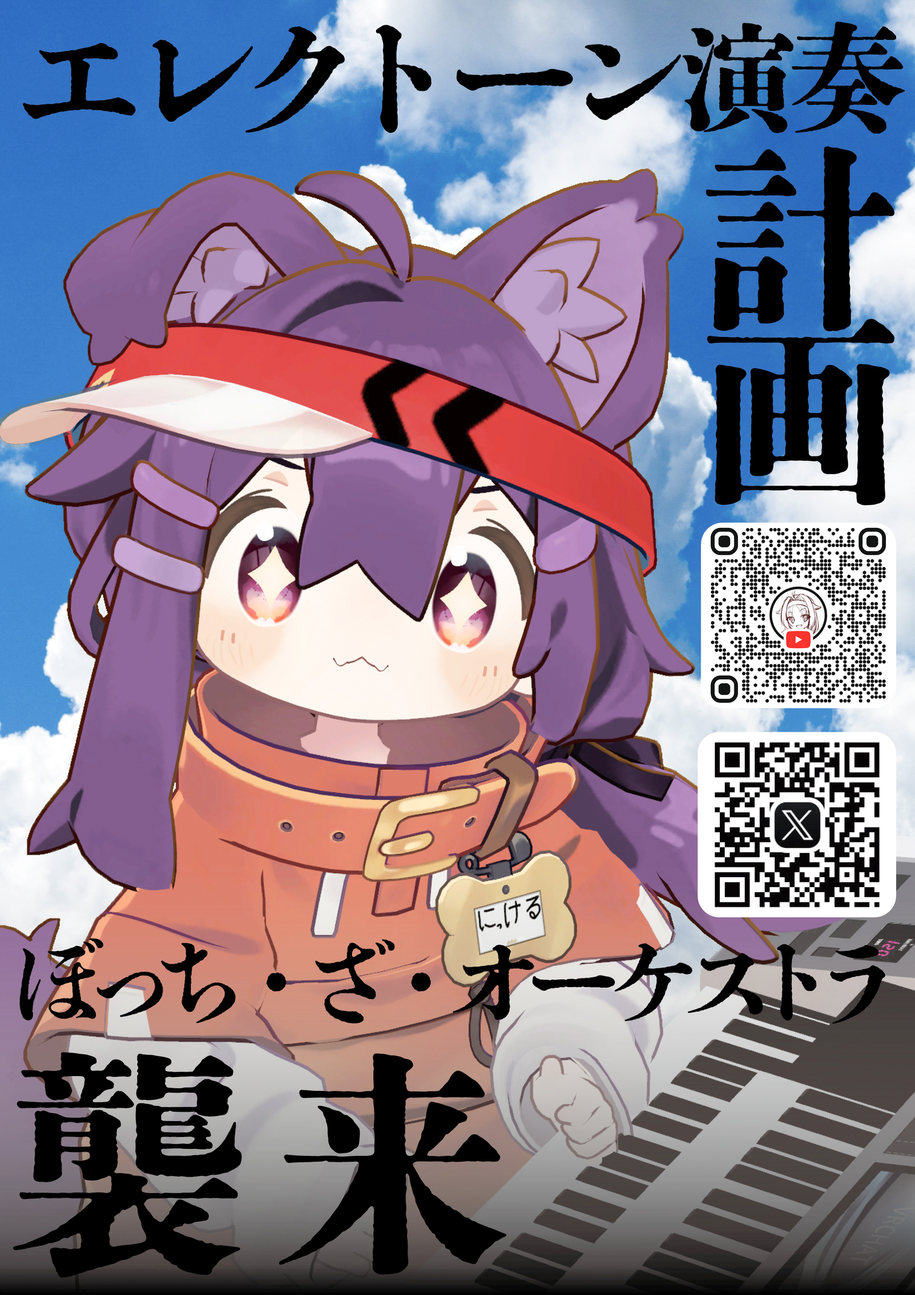
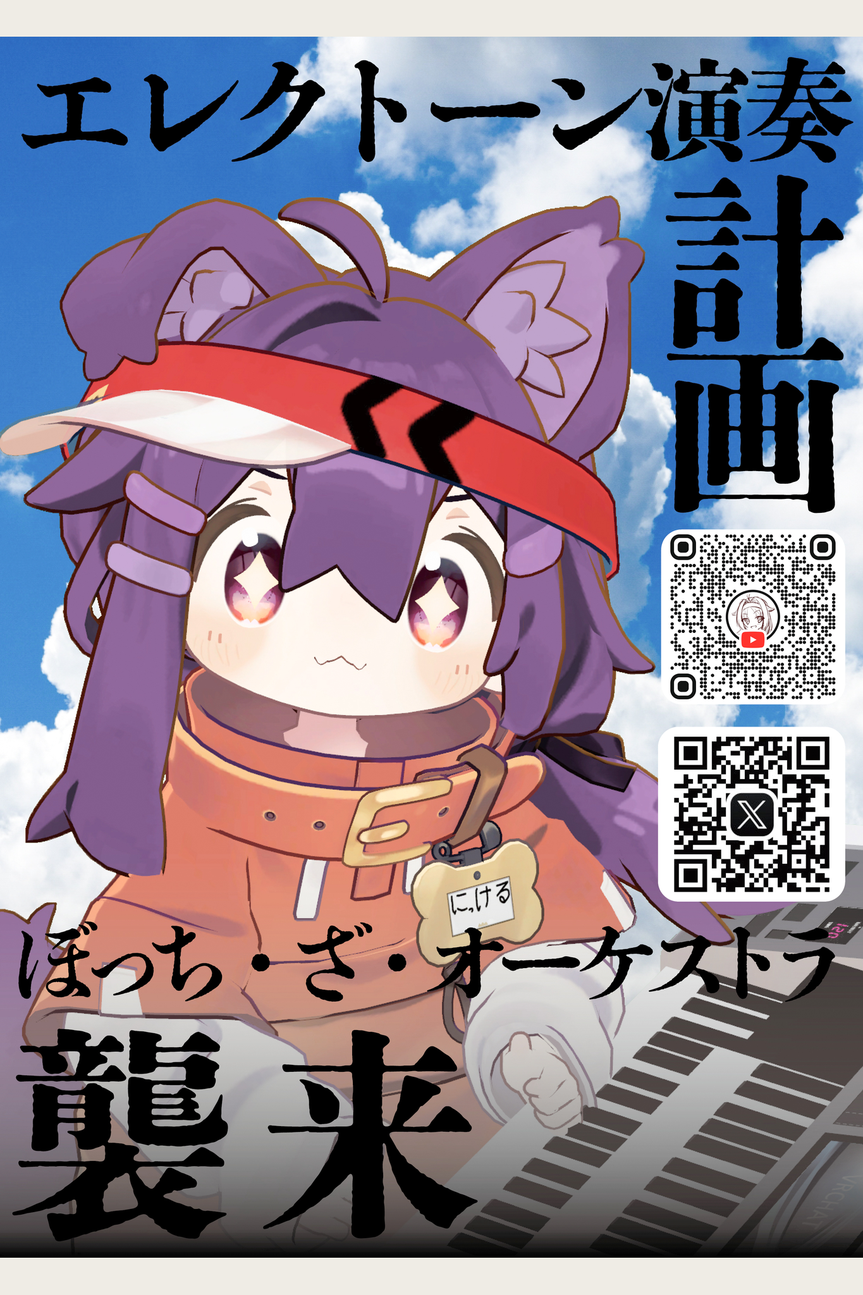
Add files via upload

diff --git a/index.html b/index.html
@@ -80,14 +80,15 @@ async function loadJson(path) {
   }
 }
 
-// 画像が実際に配信されているかを HEAD で確かめる。
-async function exists(path) {
-  try {
-    const res = await fetch(path, { method: "HEAD" });
-    return res.ok;
-  } catch (e) {
-    return false;
-  }
+// 画像を実際に読み込んで、存在と縦横比を確かめる。
+// 比率が 1.50 から外れているとワールドでポスターが縦横に歪む。
+function probeImage(path) {
+  return new Promise(resolve => {
+    const im = new Image();
+    im.onload = () => resolve({ ok: true, w: im.naturalWidth, h: im.naturalHeight });
+    im.onerror = () => resolve({ ok: false });
+    im.src = path + "?t=" + Date.now();
+  });
 }
 
 async function main() {
@@ -118,7 +119,15 @@ async function main() {
 
     if (Number.isInteger(no)) {
       const path = slotPath(no);
-      check(await exists(path), n + "人目: " + path + " が存在する");
+      const info = await probeImage(path);
+      check(info.ok, n + "人目: " + path + " が存在する");
+      if (info.ok) {
+        const ratio = info.h / info.w;
+        check(Math.abs(ratio - 1.50) < 0.01,
+              n + "人目: 縦横比が 1.50 (" + info.w + "x" + info.h + " = " + ratio.toFixed(3) + ")");
+        check(info.w <= 1365 && info.h <= 2048,
+              n + "人目: 2048 以内 (" + info.w + "x" + info.h + ")");
+      }
     }
 
     html.push(

diff --git a/tools/prepare_poster.py b/tools/prepare_poster.py
@@ -7,9 +7,13 @@
 例:
     python tools/prepare_poster.py "C:/Users/shota miyazawa/Desktop/20260818_ss/poster/yuu.png" 1
 
-VRChat の Image Loading は長辺 2048 ピクセルを超える画像を読み込めない。
-超えるものは縮小する。PNG は可逆圧縮なので、縮小が要らない画像も
-再圧縮して配信量を減らす（画質は落ちない）。
+出力は必ず 1365x2048（縦/横 = 1.50）に揃える。額縁の開口と同じ比率である。
+元画像は切らずに、この枠へ収まる最大の大きさで中央に置き、余った部分は
+台紙と同じ色で埋める。
+
+ワールド側でポスター面の形を変えないための処置である。面の形が変わらなければ
+Lightmap Static のまま焼けるので、焼いた光がそのまま正しく乗る。余白部分にも
+台紙と同じライトマップが乗るため、境界は見えない。
 
 番号は roster.json の台帳と対応させる。一度振った番号は変更しないこと。
 Unity 側の VRCUrl はこの番号でワールドに焼き込まれているため、
@@ -21,8 +25,18 @@ import sys
 
 from PIL import Image
 
-# VRChat Image Loading の上限。これを超えると読み込みエラーになる。
-MAX_EDGE = 2048
+# 額縁の開口と同じ比率（高さ / 幅）。出力はこの比率に必ず揃える。
+# 解像度そのものは画像ごとに違ってよい。ポスター面の UV は 0〜1 なので、
+# 比率さえ合っていれば正しい大きさで表示される。
+CANVAS_RATIO = 1.50
+
+# VRChat の Image Loading の上限。これを超えると読み込みエラーになる。
+MAX_W = 1365
+MAX_H = 2048
+
+# 余白の色。Unity 側 MAT_Gallery_OffWhite_DomeTuned の _Color を sRGB8 にしたもの。
+# ここを変えるときは Unity 側の台紙色も必ず合わせること。
+MAT_COLOR = (239, 236, 229)
 
 # 割り当て済みの番号の上限。Unity 側に用意した VRCUrl の枠数と一致させる。
 MAX_SLOT = 100
@@ -43,31 +57,49 @@ def prepare(src_path, slot):
 
     with Image.open(src_path) as im:
         width, height = im.size
-        long_edge = max(width, height)
 
-        # P（パレット）モードのまま縮小すると色が壊れるので RGBA を経由する。
-        work = im.convert("RGBA")
+        # P（パレット）モードのまま縮小すると色が壊れるので RGB を経由する。
+        work = im.convert("RGB")
 
-        if long_edge > MAX_EDGE:
-            scale = MAX_EDGE / long_edge
-            new_size = (round(width * scale), round(height * scale))
-            work = work.resize(new_size, Image.LANCZOS)
-            action = "縮小"
+        # 元画像をちょうど包む 1.50 の枠を求める。拡大はしない。
+        # 拡大しても元にない解像度が増えるだけで、ぼけて容量も増える。
+        canvas_w = max(width, -(-height * 2 // 3))   # ceil(height / 1.5)
+        canvas_h = round(canvas_w * CANVAS_RATIO)
+
+        # 上限を超える場合だけ、枠と画像を同じ倍率で縮める。
+        if canvas_w > MAX_W or canvas_h > MAX_H:
+            shrink = min(MAX_W / canvas_w, MAX_H / canvas_h)
+            canvas_w = int(canvas_w * shrink)
+            canvas_h = round(canvas_w * CANVAS_RATIO)
+            new_size = (max(1, round(width * shrink)), max(1, round(height * shrink)))
         else:
             new_size = (width, height)
-            action = "そのまま"
 
-        # 透過が使われていなければ RGB に落としてファイルを軽くする。
-        if work.getchannel("A").getextrema() == (255, 255):
-            work = work.convert("RGB")
+        # 端数で枠から 1px はみ出すことがあるので、収まるまで詰める。
+        fit = min(1.0, canvas_w / new_size[0], canvas_h / new_size[1])
+        if fit < 1.0:
+            new_size = (max(1, int(new_size[0] * fit)), max(1, int(new_size[1] * fit)))
+        if new_size != (width, height):
+            work = work.resize(new_size, Image.LANCZOS)
 
-        work.save(dst_path, "PNG", optimize=True)
+        canvas = Image.new("RGB", (canvas_w, canvas_h), MAT_COLOR)
+        left = (canvas_w - new_size[0]) // 2
+        top = (canvas_h - new_size[1]) // 2
+        canvas.paste(work, (left, top))
+        canvas.save(dst_path, "PNG", optimize=True)
 
+    if left > 0:
+        margin = "左右に台紙 %dpx ずつ" % left
+    elif top > 0:
+        margin = "上下に台紙 %dpx ずつ" % top
+    else:
+        margin = "余白なし"
     src_mb = os.path.getsize(src_path) / 1024 / 1024
     dst_mb = os.path.getsize(dst_path) / 1024 / 1024
     print(
-        "%03d.png  %s  %dx%d -> %dx%d  %.1fMB -> %.1fMB"
-        % (slot, action, width, height, new_size[0], new_size[1], src_mb, dst_mb)
+        "%03d.png  %dx%d -> 画像%dx%d / 枠%dx%d(%.3f)  %s  %.1fMB -> %.1fMB"
+        % (slot, width, height, new_size[0], new_size[1],
+           canvas_w, canvas_h, canvas_h / canvas_w, margin, src_mb, dst_mb)
     )
     return dst_path
 
